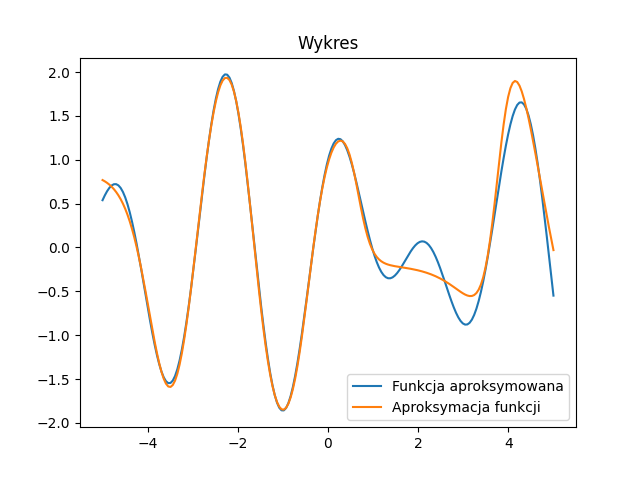
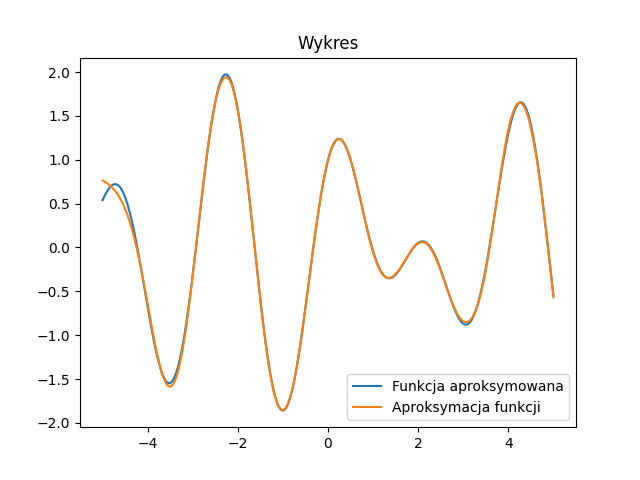
New plot

diff --git a/main.py b/main.py
@@ -21,6 +21,6 @@ def create_points_for_function(function, lower_bound, upper_bound, how_many):
 
 if __name__ == '__main__':
     dataset = create_points_for_function(approximated_function, Constants.lower_bound(), Constants.upper_bound(), 100)
-    perceptron = TwoLayerPerceptron(7, 0.003)
+    perceptron = TwoLayerPerceptron(10, 0.003)
     perceptron.train(dataset, 15000)
     draw_approximated_function_approximation_plot(Constants.lower_bound(), Constants.upper_bound(), approximated_function, perceptron)
